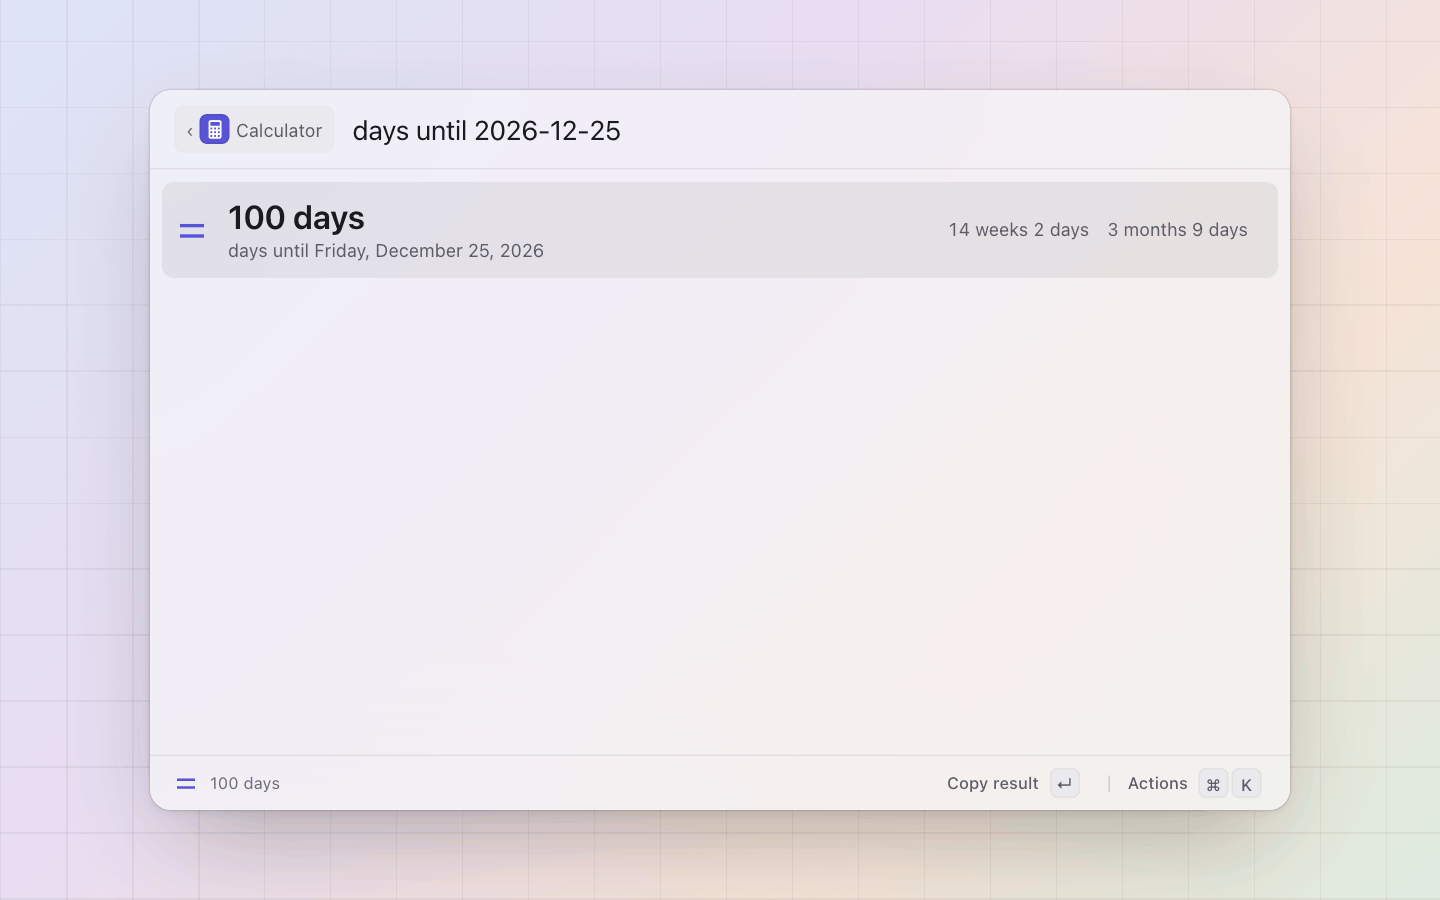
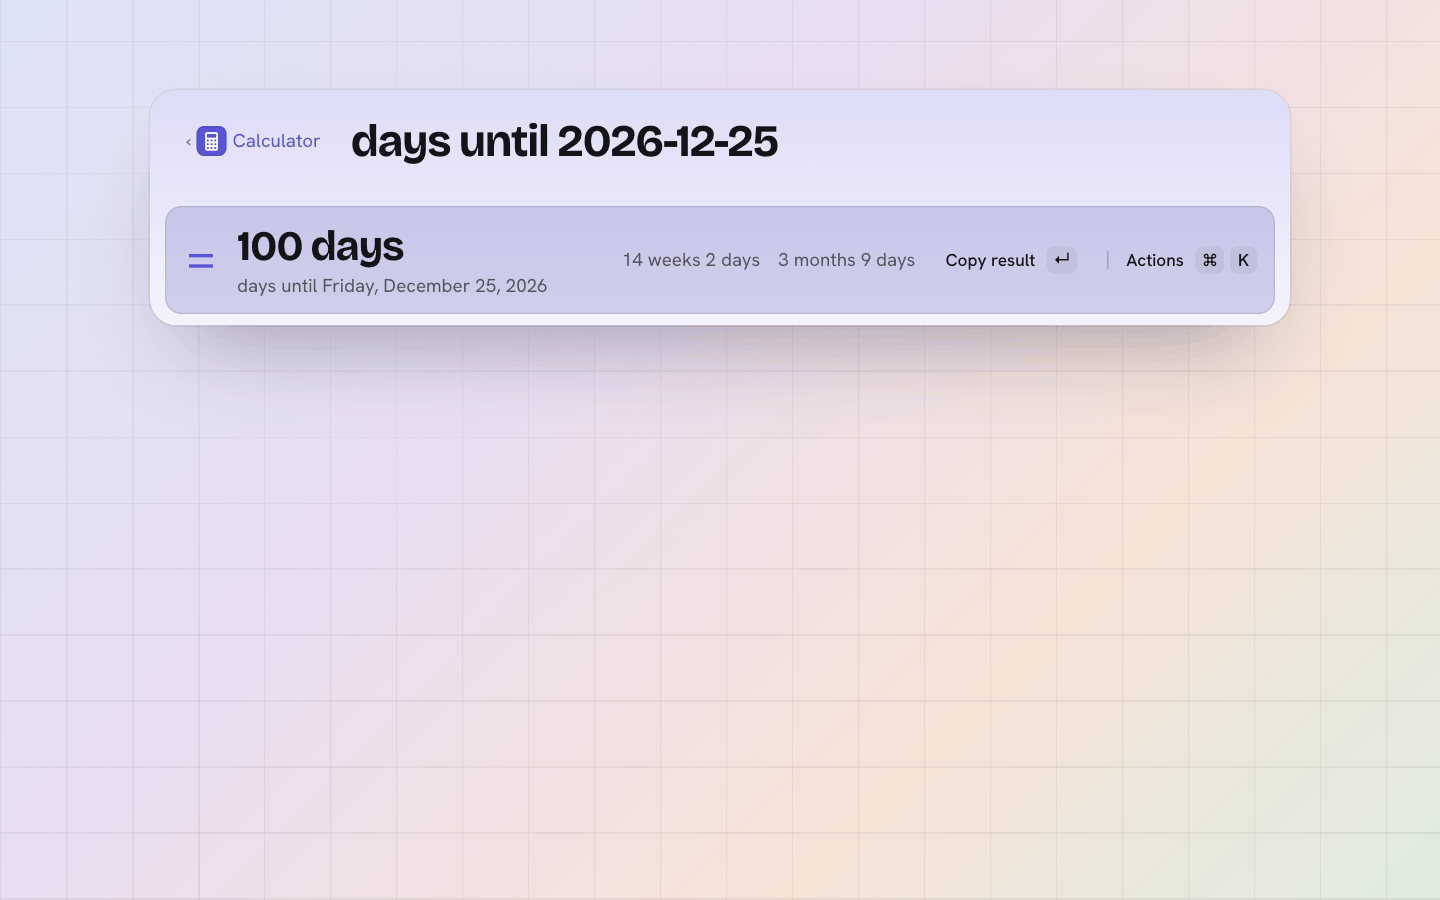
calc: the currency pane leads with the conversion (caption, title, the rate both ways as stats); the first row is the answer, an X in <variable> count too; no unit accessory repeating the title

diff --git a/extensions/calc/index.ts b/extensions/calc/index.ts
@@ -6,7 +6,7 @@
 // another form when there is one (hex for an integer, a fraction, the
 // reverse conversion). Nothing is listed while the query does not parse,
 // so typing never shows an error.
-import { hint as hintRow, now, settings, type Action, type Extension, type Item } from "@zcag/pal";
+import { hint as hintRow, now, settings, type Action, type Detail, type Extension, type Item } from "@zcag/pal";
 import { carry, code, ensureRates, hasCurrency, homeCurrency, isCurrency, money, NAMES, parse as parseCurrency, rate, SOURCE } from "./currency.ts";
 import { dates, isUnix } from "./dates.ts";
 import { normalizeNumbers, num, raw as rawNum } from "./format.ts";
@@ -86,14 +86,13 @@ async function currency(q: string, s: Settings, locale: string): Promise<Row[] |
   const p = Math.min(s.precision, 6);
   const value = amount.value * r;
   const dated = { text: `rates ${rates.date}` };
-  const detail = {
-    markdown: `**${money(amount.value, c.from, locale)}** = **${money(value, to, locale)}**`,
+  // The pane is the conversion: the two currencies on top, the sum as its title, the rate both ways large.
+  const detail: Detail = {
+    caption: `${NAMES[c.from] ?? c.from} to ${NAMES[to] ?? to}`,
+    title: `${money(amount.value, c.from, locale)} = ${money(value, to, locale)}`,
+    stats: [{ value: num(r, p, locale), label: `${to} per ${c.from}` }, { value: num(1 / r, p, locale), label: `${c.from} per ${to}` }],
     metadata: [
-      { label: "Rate", value: `1 ${c.from} = ${num(r, p, locale)} ${to}` },
-      { label: "Inverse", value: `1 ${to} = ${num(1 / r, p, locale)} ${c.from}` },
-      { label: "From", value: `${NAMES[c.from] ?? c.from} (${c.from})` },
-      { label: "To", value: `${NAMES[to] ?? to} (${to})` },
-      { label: "Rates", value: rates.date },
+      { label: "Rates of", value: rates.date },
       { label: "Source", link: { text: SOURCE.name, href: SOURCE.url } },
     ],
   };
@@ -115,7 +114,7 @@ async function arithmetic(q: string, s: Settings, locale: string): Promise<Row[]
   if (r.kind === "text") return [{ id: "result", name: r.text, subtitle: expr, raw: r.text }];
   if (r.kind === "unit") {
     const p = Math.min(s.precision, 6);
-    return [{ id: "result", name: `${num(r.value, p, locale)} ${r.unit}`, subtitle: expr, raw: `${rawNum(r.value, p)} ${r.unit}`, accessories: [{ text: r.unit }] }];
+    return [{ id: "result", name: `${num(r.value, p, locale)} ${r.unit}`, subtitle: expr, raw: `${rawNum(r.value, p)} ${r.unit}` }];
   }
   const rows: Row[] = [{ id: "result", name: num(r.value, s.precision, locale), subtitle: expr, raw: rawNum(r.value, s.precision) }];
   // Other bases for a number typed as one (`0xff`) or a bare integer (`255`); not for every integer result.
@@ -221,13 +220,13 @@ async function variables(q: string, s: Settings, locale: string): Promise<Row[] 
   return [{ id: "result", name: num(v.value, s.precision, locale), subtitle, raw: rawNum(v.value, s.precision), accessories: [pct] }];
 }
 
-const item = (r: Row): Item => ({
+const item = (r: Row, i: number): Item => ({
   id: r.id,
   name: r.name,
   subtitle: r.subtitle,
   icon: ICON,
-  // The answer leads (Item.hero): the result row as a headline, the query as understood under it.
-  ...(r.id === "result" && !r.inert ? { hero: true } : {}),
+  // The answer leads (Item.hero): the first row (the result, or the largest `X in <variable>` count) as a headline, the query as understood under it.
+  ...(i === 0 && !r.inert ? { hero: true } : {}),
   ...(r.accessories?.length ? { accessories: r.accessories } : {}),
   ...(r.detail ? { detail: r.detail } : {}),
   actions: r.inert ? [] : ACTIONS,

diff --git a/host/test/extensions/calc.test.ts b/host/test/extensions/calc.test.ts
@@ -146,7 +146,7 @@ describe("numbers", () => {
 
 describe("units", () => {
   test("the common phrasings, rounded to 6 significant digits, the unit as accessory", async () => {
-    expect(await calc("5 km to miles")).toEqual([{ id: "result", name: "3.10686 miles", subtitle: "5 km to miles", icon: "\u{f01fc}", hero: true, accessories: [{ text: "miles" }], actions: ACTIONS }]);
+    expect(await calc("5 km to miles")).toEqual([{ id: "result", name: "3.10686 miles", subtitle: "5 km to miles", icon: "\u{f01fc}", hero: true, actions: ACTIONS }]);
     expect(await first("72 f to c")).toBe("22.2222 °C");
     expect(await first("72f to c")).toBe("22.2222 °C");
     expect(await first("212 °F to °C")).toBe("100 °C");
@@ -168,16 +168,15 @@ describe("units", () => {
 });
 
 describe("currency", () => {
-  test("12 usd to try: the conversion, the rate and its date, the reverse row, a detail", async () => {
+  test("12 usd to try: the conversion, the rate and its date, the reverse row, a pane with the rate both ways", async () => {
     const rows = await calc("12 usd to try");
     expect(rows.map((r) => [r.id, r.name, r.subtitle])).toEqual([["result", "583.68 TRY", "12 USD to TRY"], ["reverse", "0.25 USD", "12 TRY to USD"]]);
     expect(texts(rows[0])).toEqual(["1 USD = 48.6403 TRY", "rates 2026-09-15"]);
     expect(rows[0].actions).toEqual(ACTIONS);
     const d = rows[0].detail!;
-    expect(d.markdown).toBe("**12.00 USD** = **583.68 TRY**");
-    expect(d.metadata!.map((m) => [m.label, m.value ?? m.link?.text])).toEqual([
-      ["Rate", "1 USD = 48.6403 TRY"], ["Inverse", "1 TRY = 0.0205591 USD"], ["From", "US Dollar (USD)"], ["To", "Turkish Lira (TRY)"], ["Rates", "2026-09-15"], ["Source", "European Central Bank via frankfurter.dev"],
-    ]);
+    expect([d.caption, d.title]).toEqual(["US Dollar to Turkish Lira", "12.00 USD = 583.68 TRY"]);
+    expect(d.stats).toEqual([{ value: "48.6403", label: "TRY per USD" }, { value: "0.0205591", label: "USD per TRY" }]);
+    expect(d.metadata!.map((m) => [m.label, m.value ?? m.link?.text])).toEqual([["Rates of", "2026-09-15"], ["Source", "European Central Bank via frankfurter.dev"]]);
   });
 
   test("symbols, names, codes in any case, `in`, shorthand amounts, an amount expression", async () => {
@@ -391,6 +390,7 @@ describe("variables", () => {
     expect(await rows("salary_month in rent")).toEqual([["10.84 rent", "9,360.00 USD / 42,000.00 TRY", ["1,084%"]]]);
     expect(await rows("5 km in lap")).toEqual([["100 pool", "5 km / 50 m", ["10,000%"]], ["12.5 track", "5 km / 400 m", ["1,250%"]]]);
     expect(await rows("5 kg in lap_pool")).toEqual([["0.1 kg/m per lap_pool", "5 kg / 50 m", []]]); // no cancel: the quotient, per the name
+    expect((await calc("1500 usd in salary")).map((r) => r.hero)).toEqual([true, undefined, undefined]); // the largest count is the answer
   });
 
   test("an `in` naming no variable or prefix is the conversion it was", async () => {
